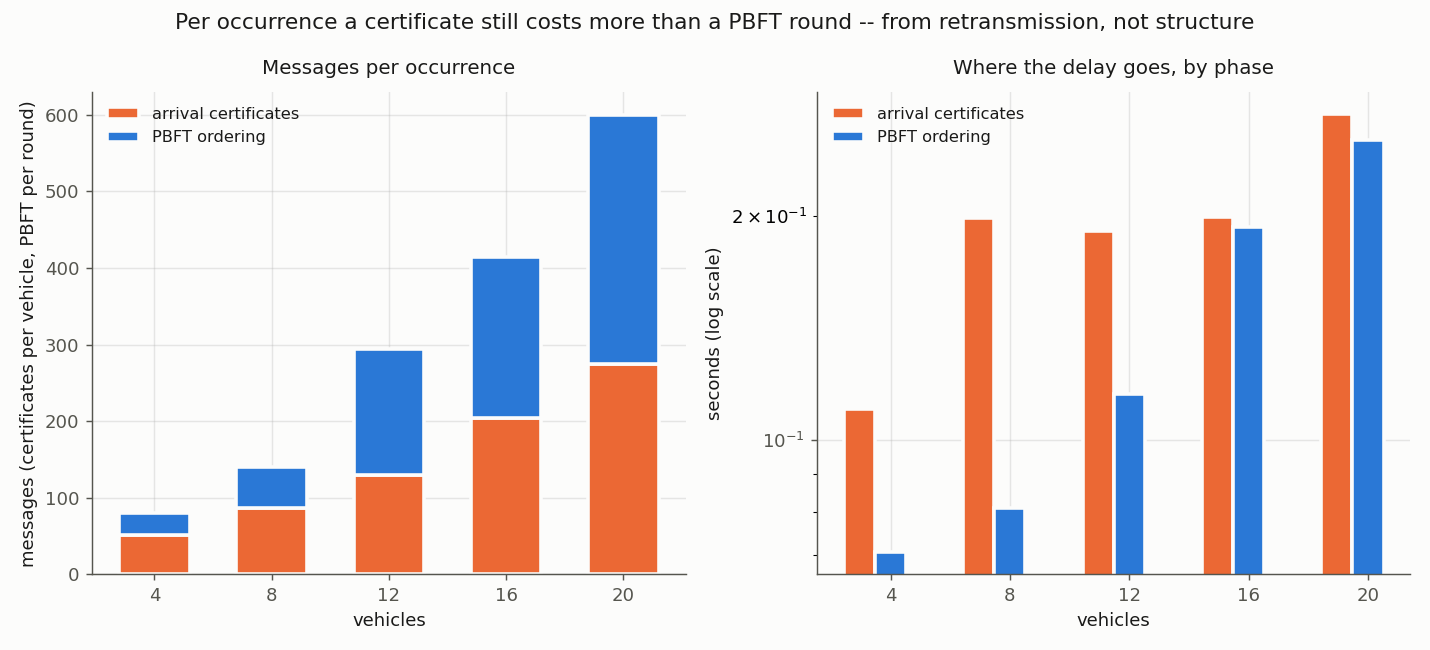
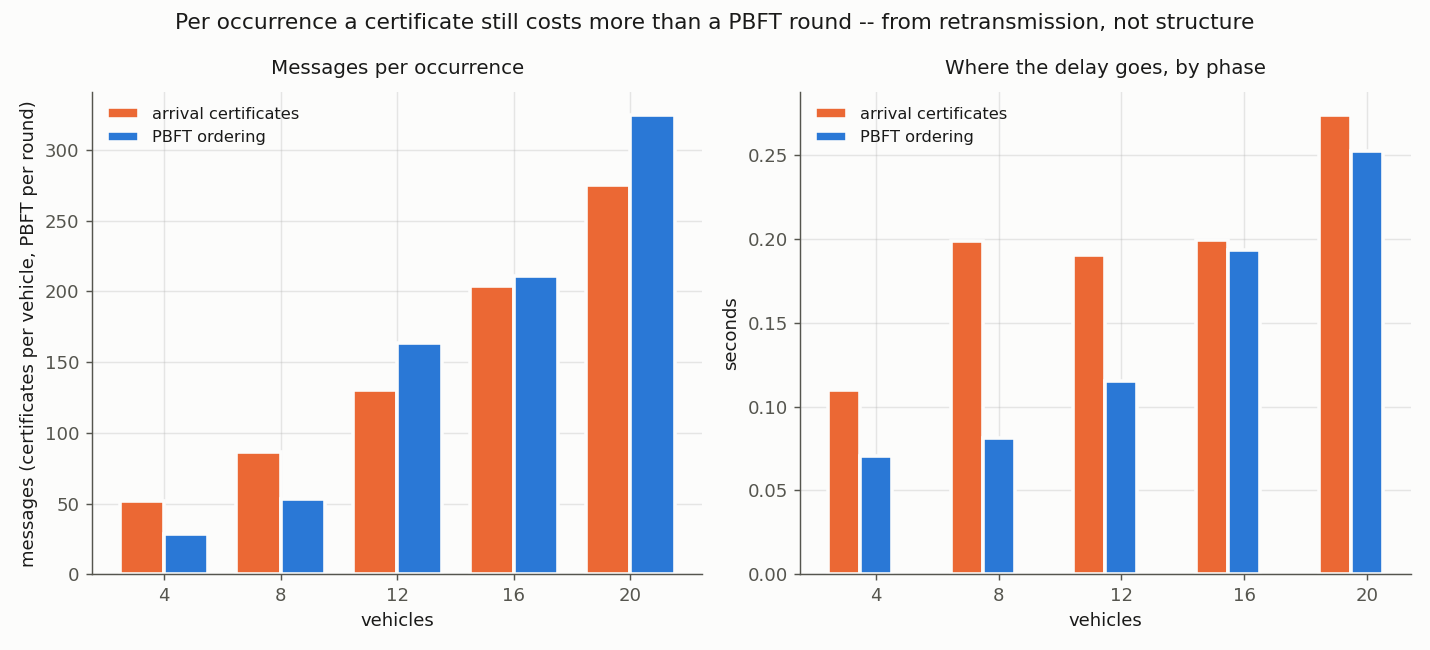
fix(plotter): make the decomposition panels readable
Panel 1 was stacked, but certificates are normalised per vehicle and PBFT per
round, so the bar total was not a quantity -- it invited reading a sum that
means nothing, and it hid the crossover at N=12 where a PBFT round overtakes a
certificate per event (130 vs 164, 204 vs 211, 275 vs 325). Grouped now.

Panel 2's log axis was chosen when cert_collection -- the waiting phase, 143ms
at N=4 rising to 5882ms at N=20 -- shared the axes. That phase is no longer
drawn, and with two bars within 2.5x of each other the log scale only
compressed the difference the panel exists to show. Linear now.

Also corrects docs/ablations.md, which claimed PBFT was the slower layer per
occurrence (213 vs 165ms at N=16). The measurement is the other way round:
certificates are slower at every load (110 vs 71ms at N=4, 199 vs 193ms at
N=16), not because they do more work -- one round trip at f+1 against PBFT's
two to three phases at 2f+1 -- but because they wait. A vehicle re-announces
until f+1 peers echo, and those peers must physically arrive first, so
completion lands on an announce-backoff retry boundary rather than at network
speed. Each vehicle sends 14-25 announces where one would do in a lossless
world, and ECHO grows superlinearly (25 -> 264 -> 2004 -> 3656 for N=4/8/16/20).

diff --git a/plotter/figures/an_cost_decomposition.py b/plotter/figures/an_cost_decomposition.py
@@ -74,13 +74,17 @@ def load(runs):
 
 
 def _stacked(data, key, ax, *, title, ylabel):
-    bottoms = [0.0] * len(data["ns"])
+    # Grouped, not stacked. The two series have different denominators --
+    # certificates per vehicle, PBFT per round -- so their sum is not a
+    # quantity: stacking invited reading a total that means nothing, and it
+    # hid the crossover at N=12 where PBFT overtakes certificates per event.
     xs = list(range(len(data["ns"])))
-    for label, _, color, _div in LAYERS:
+    width = 0.38
+    for i, (label, _, color, _div) in enumerate(LAYERS):
         ys = [s.mean if s.mean is not None else 0.0 for s in data[key][label]]
-        ax.bar(xs, ys, 0.6, bottom=bottoms, color=color, label=label,
-               edgecolor=style.BAR_EDGE, linewidth=style.BAR_EDGEWIDTH)
-        bottoms = [b + y for b, y in zip(bottoms, ys)]
+        ax.bar([x + (i - 0.5) * width for x in xs], ys, width, color=color,
+               label=label, edgecolor=style.BAR_EDGE,
+               linewidth=style.BAR_EDGEWIDTH)
     ax.set_xticks(xs)
     ax.set_xticklabels([str(n) for n in data["ns"]])
     style.finish(ax, title=title, xlabel="vehicles", ylabel=ylabel,
@@ -98,11 +102,13 @@ def _phases(data, ax):
         ax.bar([x + (i - 1) * width for x in xs], ys, width, color=color,
                label=label, edgecolor=style.BAR_EDGE,
                linewidth=style.BAR_EDGEWIDTH)
-    ax.set_yscale("log")
+    # Linear, not log. The log axis was for a waiting phase two orders larger
+    # that is no longer plotted; with two bars within 2.5x of each other it
+    # only compresses the difference the panel exists to show.
     ax.set_xticks(xs)
     ax.set_xticklabels([str(n) for n in data["ns"]])
     style.finish(ax, title="Where the delay goes, by phase",
-                 xlabel="vehicles", ylabel="seconds (log scale)", legend=True)
+                 xlabel="vehicles", ylabel="seconds", legend=True)
 
 
 def build(data, axes):

diff --git a/docs/ablations.md b/docs/ablations.md
@@ -210,14 +210,25 @@ cheapest study (~5 min for 3 reps) — it should be run at 9–12.
 Honest operation only (`k=0`); with replicas silenced the traffic mix reflects
 failure, not normal composition.
 
-**Per occurrence, PBFT ordering is slower than certificate formation** — 213ms vs
-165ms at N=16. Certificate formation is one round trip at an `f+1` threshold;
-PBFT is two to three phases at `2f+1`.
+**Per occurrence, certificate formation is the slower of the two** — 199ms vs
+193ms at N=16, and the gap is far wider at low load (110 vs 71ms at N=4, 199 vs
+81ms at N=8). It is not slower because it does more work: it is one round trip
+at an `f+1` threshold against PBFT's two to three phases at `2f+1`. It is slower
+because it *waits*. A vehicle re-announces until `f+1` peers echo it, and those
+peers have to physically arrive at the intersection first, so completion is
+bounded by the announce retransmission interval rather than by transmission
+time. PBFT's phases fire back to back with nothing to wait for.
 
-**But certificates dominate total traffic ~15.6×** (3251 vs 209 messages at
-N=16), because the cert layer runs once per *vehicle* and is O(N²) in echoes,
-while PBFT runs once per *round*. Latency and volume point in opposite
-directions, which is why the figure shows both.
+**Per occurrence the message counts cross over.** Certificates cost more per
+event at low load (52 vs 29 at N=4, 86 vs 53 at N=8) and *less* from N=12 on
+(130 vs 164, 204 vs 211, 275 vs 325) — a PBFT round grows with the replica
+count while one vehicle's certificate does not.
+
+**In total traffic certificates still dominate ~15.5×** (3258 vs 211 messages at
+N=16), because the cert layer runs once per *vehicle* while PBFT runs once per
+*round*. Which layer is "expensive" therefore depends entirely on whether the
+question is per event or per run, which is why the figure normalises per
+occurrence and this note states the totals.
 
 Certificates are normalised **per vehicle** and PBFT **per round**, so the left
 panel compares one occurrence against one occurrence. Comparing raw totals would
